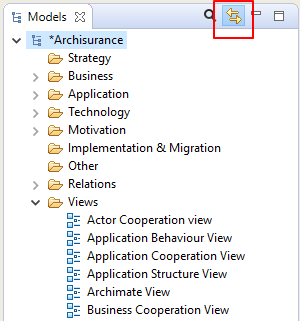
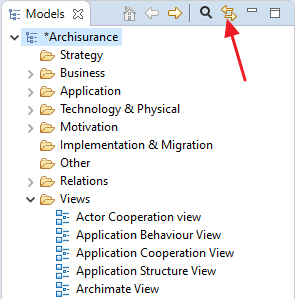
Add drilldown to Models Tree

Changed region(s): [[0.0, 0.0, 1.0, 1.0]]

diff --git a/com.archimatetool.help/help/Text/navigator.html b/com.archimatetool.help/help/Text/navigator.html
@@ -22,7 +22,7 @@
     <p class="caption">The Navigator Window</p>
     <p>In the above screenshot the user has selected the element "CRM System". There are three Realisation  relationships between the selected element and the three elements "Customer  Administration Service", "Insurance Application Service", and "CIS". From these three elements further relationships are shown between them and their target concepts.</p>
     
-    <p>It is possible, therefore, to "dig in" to the Navigator tree and traverse from concept to concept following it and its child relationships from source to target.</p>
+    <p>It is possible, therefore, to "drill down" into the Navigator tree and traverse from concept to concept following it and its child relationships from source to target.</p>
     
     <p>A selected sub-concept can become the "root" concept by either double-clicking on it in the tree or by clicking on the "Go Into" button  on the window's toolbar:</p>
     

diff --git a/com.archimatetool.help/help/Text/model_tree_working.html b/com.archimatetool.help/help/Text/model_tree_working.html
@@ -68,6 +68,13 @@
     <p>This button is a toggle and can be turned off or on.</p>
     <p>Synchronised selection is possible on more than one selected concept.</p>
     <p>Note that synchronised selection is only possible if a relevant View is open. Selecting a concept in the Model Tree will not synchronise a selection in a View if that View does not contain that particular concept or concepts.</p>
+    <br/>
+    
+    <h2>Drill Down</h2>
+
+    <p>Using the Drill Down buttons, "Home", "Back" and "Go Into", it is possible to "drill into" a model or folder. The path to the currently selected object or folder is shown in the Status Bar.</p>
+    <img src="../Images/model-tree-drill.png"/>
+    <p class="caption">The "Drill Down" buttons</p>
     
     <p>&nbsp;</p>
     

diff --git a/com.archimatetool.editor/src/com/archimatetool/editor/views/tree/TreeModelView.java b/com.archimatetool.editor/src/com/archimatetool/editor/views/tree/TreeModelView.java
@@ -45,6 +45,7 @@ import org.eclipse.ui.IWorkbenchWindow;
 import org.eclipse.ui.PartInitException;
 import org.eclipse.ui.PlatformUI;
 import org.eclipse.ui.actions.ActionFactory;
+import org.eclipse.ui.part.DrillDownAdapter;
 
 import com.archimatetool.editor.actions.ArchiActionFactory;
 import com.archimatetool.editor.actions.NewArchimateModelAction;
@@ -128,6 +129,8 @@ implements ITreeModelView, IUIRequestListener {
     
     private TreeSelectionSynchroniser fSynchroniser;
     
+    private DrillDownAdapter fDrillDownAdapter;
+    
     public TreeModelView() {
     }
     
@@ -145,6 +148,8 @@ implements ITreeModelView, IUIRequestListener {
         fTreeViewer.getControl().setLayoutData(new GridData(GridData.FILL_BOTH));
         
         fTreeViewer.setInput(IEditorModelManager.INSTANCE);
+        
+        fDrillDownAdapter = new DrillDownAdapter(fTreeViewer);
         
         /*
          * Listen to Double-click and press Return Action
@@ -205,6 +210,17 @@ implements ITreeModelView, IUIRequestListener {
     
     @Override
     public void saveState(IMemento memento) {
+        // Reset drill-down
+        if(fDrillDownAdapter.canGoHome()) {
+            try {
+                getViewer().getControl().setRedraw(false);
+                fDrillDownAdapter.goHome();
+            }
+            finally {
+                getViewer().getControl().setRedraw(true);
+            }
+        }
+        
         // Save expanded tree state
         TreeStateHelper.INSTANCE.saveStateOnApplicationClose(fTreeViewer, memento);
     }
@@ -428,7 +444,7 @@ implements ITreeModelView, IUIRequestListener {
         Object selected = selection.getFirstElement();
         boolean isEmpty = selected == null;
         
-        if(isEmpty) {
+        if(isEmpty && fTreeViewer.getInput() instanceof IEditorModelManager) {
             manager.add(fActionNewModel);
             manager.add(fActionOpenModel);
             return;
@@ -477,7 +493,15 @@ implements ITreeModelView, IUIRequestListener {
             }
 
             manager.add(new Separator("end_collapse")); //$NON-NLS-1$
-            
+        }
+        
+        // Drill-down adapter
+        if(fDrillDownAdapter.canGoInto() || fDrillDownAdapter.canGoBack() || fDrillDownAdapter.canGoHome()) {
+            fDrillDownAdapter.addNavigationActions(manager);
+            manager.add(new Separator("drill")); //$NON-NLS-1$
+        }
+        
+        if(!isEmpty) {
             if(DuplicateCommandHandler.canDuplicate(selection)) {
                 manager.add(fActionDuplicate);
             }
@@ -523,6 +547,10 @@ implements ITreeModelView, IUIRequestListener {
     private void makeLocalToolBar() {
         IActionBars bars = getViewSite().getActionBars();
         IToolBarManager manager = bars.getToolBarManager();
+
+        fDrillDownAdapter.addNavigationActions(manager);
+        manager.add(new Separator());
+        
         manager.add(fActionToggleSearchField);
         manager.add(fActionLinkToEditor);
     }
@@ -544,12 +572,29 @@ implements ITreeModelView, IUIRequestListener {
         return false;
     }
     
+    /**
+     * Reset drilldown if it is showing a deleted object
+     */
+    private void checkDrillDown() {
+        if(fTreeViewer.getInput() instanceof IArchimateModelObject && ((IArchimateModelObject)fTreeViewer.getInput()).getArchimateModel() == null) {
+            if(fDrillDownAdapter.canGoHome()) {
+                fDrillDownAdapter.goHome();
+            }
+        }
+    }
+
     @Override
     protected IArchimateModel getActiveArchimateModel() {
         Object selected = ((IStructuredSelection)getViewer().getSelection()).getFirstElement();
+        
         if(selected instanceof IArchimateModelObject) {
             return ((IArchimateModelObject)selected).getArchimateModel();
         }
+        
+        if(getViewer().getInput() instanceof IArchimateModelObject) {
+            return ((IArchimateModelObject)getViewer().getInput()).getArchimateModel();
+        }
+        
         return null;
     }
     
@@ -625,6 +670,8 @@ implements ITreeModelView, IUIRequestListener {
             getViewer().refresh();
             // Clear Cut/Paste clipboard
             TreeModelCutAndPaste.INSTANCE.clear();
+            // Drilldown
+            checkDrillDown();
         }
         
         // Model dirty state, so update Actions and modified state of source (asterisk on model node)
@@ -698,6 +745,7 @@ implements ITreeModelView, IUIRequestListener {
         }
         else {
             super.eCoreChanged(msg);
+            checkDrillDown();
         }
     }
     
@@ -752,6 +800,8 @@ implements ITreeModelView, IUIRequestListener {
         finally {
             getViewer().getControl().setRedraw(true);
         }
+        
+        checkDrillDown();
     }
 
     // =================================================================================

diff --git a/com.archimatetool.editor/src/com/archimatetool/editor/views/tree/actions/NewMenuContributionItem.java b/com.archimatetool.editor/src/com/archimatetool/editor/views/tree/actions/NewMenuContributionItem.java
@@ -14,6 +14,7 @@ import org.eclipse.jface.action.MenuManager;
 import org.eclipse.jface.action.Separator;
 import org.eclipse.jface.viewers.IStructuredSelection;
 import org.eclipse.swt.widgets.Menu;
+import org.eclipse.ui.IPartService;
 import org.eclipse.ui.ISelectionService;
 import org.eclipse.ui.menus.IWorkbenchContribution;
 import org.eclipse.ui.services.IServiceLocator;
@@ -35,6 +36,7 @@ public class NewMenuContributionItem extends ContributionItem implements IWorkbe
     private MenuManager menuManager;
     
     private ISelectionService selectionService;
+    private IPartService partService;
     
     @Override
     public void fill(Menu menu, int index) {
@@ -42,12 +44,22 @@ public class NewMenuContributionItem extends ContributionItem implements IWorkbe
             menuManager.dispose();
         }
         
+        Object selected = null;
+        
+        // If we have a tree selection...
         IStructuredSelection selection = getCurrentSelection();
-        if(selection == null) {
+        if(selection != null) {
+            selected = selection.getFirstElement();
+        }
+        // No, look for current tree input
+        if(selected == null) {
+            selected = getTreeInput();
+        }
+        if(selected == null) {
             return;
         }
 
-        List<IAction> actions = TreeModelViewActionFactory.INSTANCE.getNewObjectActions(selection.getFirstElement());
+        List<IAction> actions = TreeModelViewActionFactory.INSTANCE.getNewObjectActions(selected);
         
         menuManager = new MenuManager();
         
@@ -74,6 +86,13 @@ public class NewMenuContributionItem extends ContributionItem implements IWorkbe
         return true;
     }
 
+    private Object getTreeInput() {
+        if(partService.getActivePart() instanceof ITreeModelView) {
+            return ((ITreeModelView)partService.getActivePart()).getViewer().getInput();
+        }
+        return null;
+    }
+    
     private IStructuredSelection getCurrentSelection() {
         return (IStructuredSelection)selectionService.getSelection(ITreeModelView.ID);
     }
@@ -81,6 +100,7 @@ public class NewMenuContributionItem extends ContributionItem implements IWorkbe
     @Override
     public void initialize(IServiceLocator serviceLocator) {
         this.selectionService = serviceLocator.getService(ISelectionService.class);
+        this.partService = serviceLocator.getService(IPartService.class);
     }    
 }
 

diff --git a/com.archimatetool.editor/src/com/archimatetool/editor/views/AbstractModelView.java b/com.archimatetool.editor/src/com/archimatetool/editor/views/AbstractModelView.java
@@ -39,6 +39,7 @@ import com.archimatetool.editor.model.IEditorModelManager;
 import com.archimatetool.editor.ui.ArchiLabelProvider;
 import com.archimatetool.model.IArchimateElement;
 import com.archimatetool.model.IArchimateModel;
+import com.archimatetool.model.IArchimateModelObject;
 import com.archimatetool.model.IArchimatePackage;
 import com.archimatetool.model.IArchimateRelationship;
 import com.archimatetool.model.IDiagramModelArchimateConnection;
@@ -100,6 +101,9 @@ implements IContextProvider, PropertyChangeListener, ITabbedPropertySheetPageCon
             public void selectionChanged(SelectionChangedEvent event) {
                 // Update status bar on selection
                 Object selected = ((IStructuredSelection)event.getSelection()).getFirstElement();
+                if(selected == null) {
+                    selected = getViewer().getInput();
+                }
                 updateStatusBarWithSelection(selected);
                 
                 // Update shell text
@@ -115,9 +119,25 @@ implements IContextProvider, PropertyChangeListener, ITabbedPropertySheetPageCon
     protected void updateStatusBarWithSelection(Object selected) {
         IStatusLineManager status = getViewSite().getActionBars().getStatusLineManager();
         
-        if(selected != null) {
-            Image image = ArchiLabelProvider.INSTANCE.getImage(selected);
-            String text = ArchiLabelProvider.INSTANCE.getLabelNormalised(selected);
+        if(selected instanceof IArchimateModelObject) {
+            IArchimateModelObject object = (IArchimateModelObject)selected;
+            Image image = ArchiLabelProvider.INSTANCE.getImage(object);
+            
+            String text = ""; //$NON-NLS-1$
+            List<String> list = new ArrayList<String>();
+            
+            do {
+                list.add(ArchiLabelProvider.INSTANCE.getLabelNormalised(object));
+                object = (IArchimateModelObject)object.eContainer();
+            } while((object != null));
+            
+            for(int i = list.size() - 1; i >= 0; i--) {
+                text += list.get(i);
+                if(i != 0) {
+                    text += " > "; //$NON-NLS-1$
+                }
+            }
+            
             status.setMessage(image, text);
         }
         else {

diff --git a/com.archimatetool.editor/src/com/archimatetool/editor/views/tree/actions/TreeModelViewActionFactory.java b/com.archimatetool.editor/src/com/archimatetool/editor/views/tree/actions/TreeModelViewActionFactory.java
@@ -23,6 +23,7 @@ import com.archimatetool.editor.views.tree.commands.NewDiagramCommand;
 import com.archimatetool.editor.views.tree.commands.NewElementCommand;
 import com.archimatetool.editor.views.tree.commands.NewFolderCommand;
 import com.archimatetool.model.FolderType;
+import com.archimatetool.model.IArchimateConcept;
 import com.archimatetool.model.IArchimateElement;
 import com.archimatetool.model.IArchimateFactory;
 import com.archimatetool.model.IDiagramModel;
@@ -54,23 +55,20 @@ public class TreeModelViewActionFactory {
     public List<IAction> getNewObjectActions(Object selected) {
         List<IAction> list = new ArrayList<IAction>();
         
-        // Selected a Folder so add new Folder action
-        if(selected instanceof IFolder) {
-            IAction action = createNewFolderAction((IFolder)selected);
-            list.add(action);
-            list.add(null);
-        }
-        // Else, if we have selected a leaf object, go up to its parent
-        else if(selected instanceof IArchimateElement || selected instanceof IDiagramModel) {
+        // If we have selected a leaf object, go up to its parent
+        if(selected instanceof IArchimateConcept || selected instanceof IDiagramModel) {
             selected = ((EObject)selected).eContainer();
         }
         
-        // We haven't selected a folder
+        // We haven't got a parent folder
         if(!(selected instanceof IFolder)) {
             return list;
         }
         
         IFolder selectedFolder = (IFolder)selected;
+        
+        list.add(createNewFolderAction((IFolder)selected));
+        list.add(null);
         
         // Find the topmost folder type
         IFolder topMostFolder = selectedFolder;
